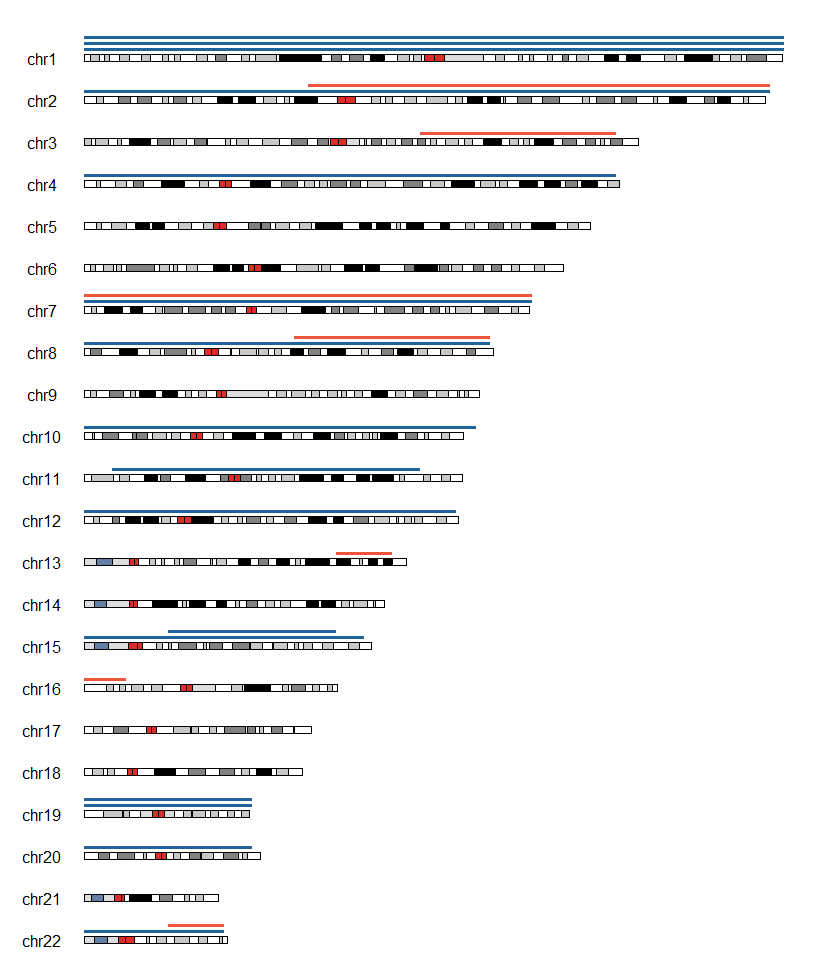
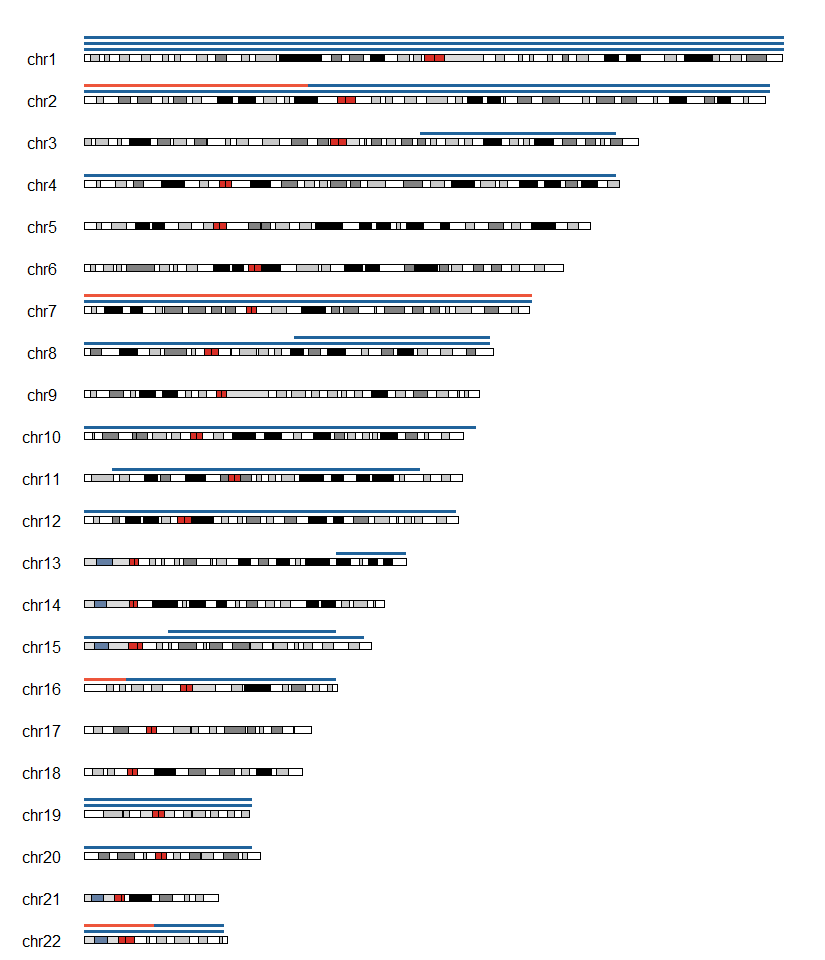
plot update

diff --git a/README.md b/README.md
@@ -33,7 +33,7 @@ If you want to cite us, please use :
 > disomy identification pipeline validated for exome sequencing with
 > 27923 samples. (2019)
 
-Date of publication : 2019-04-19
+Date of publication : 2019-04-25
 
 ## Library
 
@@ -426,10 +426,11 @@ kpRect(kp, chr="chr1", x0=0, x1=250e6, y0=0.4, y1=0.5,col="#20639B",border=NA)
 
 #chr2
 kpRect(kp, chr="chr2", x0=0, x1=245e6, y0=0, y1=0.1,col="#20639B",border=NA)
-kpRect(kp, chr="chr2", x0=80e6, x1=245e6, y0=0.2, y1=0.3 ,col="#ED553B",border=NA)
+kpRect(kp, chr="chr2", x0=0, x1=80e6, y0=0.2, y1=0.3 ,col="#ED553B",border=NA)
+kpRect(kp, chr="chr2", x0=80e6, x1=245e6, y0=0.2, y1=0.3 ,col="#20639B",border=NA)
 
 #chr3
-kpRect(kp, chr="chr3", x0=120e6, x1=190e6, y0=0, y1=0.1,col="#ED553B",border=NA)
+kpRect(kp, chr="chr3", x0=120e6, x1=190e6, y0=0, y1=0.1,col="#20639B",border=NA)
 
 #chr4
 kpRect(kp, chr="chr4", x0=0, x1=190e6, y0=0, y1=0.1,col="#20639B",border=NA)
@@ -440,7 +441,7 @@ kpRect(kp, chr="chr7", x0=0, x1=160e6, y0=0.2, y1=0.3,col="#ED553B",border=NA)
 
 #chr8
 kpRect(kp, chr="chr8", x0=0, x1=145e6, y0=0, y1=0.1,col="#20639B",border=NA)
-kpRect(kp, chr="chr8", x0=75e6, x1=145e6, y0=0.2, y1=0.3,col="#ED553B",border=NA)
+kpRect(kp, chr="chr8", x0=75e6, x1=145e6, y0=0.2, y1=0.3,col="#20639B",border=NA)
 
 #chr10
 kpRect(kp, chr="chr10", x0=0, x1=140e6, y0=0, y1=0.1,col="#20639B",border=NA)
@@ -452,7 +453,7 @@ kpRect(kp, chr="chr11", x0=10e6, x1=120e6, y0=0, y1=0.1,col="#20639B",border=NA)
 kpRect(kp, chr="chr12", x0=0, x1=133e6, y0=0, y1=0.1,col="#20639B",border=NA)
 
 #chr13
-kpRect(kp, chr="chr13", x0=90e6, x1=110e6, y0=0, y1=0.1,col="#ED553B",border=NA)
+kpRect(kp, chr="chr13", x0=90e6, x1=115e6, y0=0, y1=0.1,col="#20639B",border=NA)
 
 #chr15
 kpRect(kp, chr="chr15", x0=0, x1=100e6, y0=0, y1=0.1,col="#20639B",border=NA)
@@ -460,6 +461,7 @@ kpRect(kp, chr="chr15", x0=30e6, x1=90e6, y0=0.2, y1=0.3,col="#20639B",border=NA
 
 #chr16
 kpRect(kp, chr="chr16", x0=0, x1=15e6, y0=0, y1=0.1,col="#ED553B",border=NA)
+kpRect(kp, chr="chr16", x0=15e6, x1=90e6, y0=0, y1=0.1,col="#20639B",border=NA)
 
 #chr19
 kpRect(kp, chr="chr19", x0=0, x1=60e6, y0=0, y1=0.1,col="#20639B",border=NA)
@@ -470,7 +472,8 @@ kpRect(kp, chr="chr20", x0=0, x1=60e6, y0=0, y1=0.1,col="#20639B",border=NA)
 
 #chr22
 kpRect(kp, chr="chr22", x0=0, x1=50e6, y0=0, y1=0.1,col="#20639B",border=NA)
-kpRect(kp, chr="chr22", x0=30e6, x1=50e6, y0=0.2, y1=0.3,col="#ED553B",border=NA)
+kpRect(kp, chr="chr22", x0=0, x1=25e6, y0=0.2, y1=0.3,col="#ED553B",border=NA)
+kpRect(kp, chr="chr22", x0=25e6, x1=50e6, y0=0.2, y1=0.3,col="#20639B",border=NA)
 ```
 
 ![](README_files/figure-gfm/unnamed-chunk-30-1.png)<!-- -->
